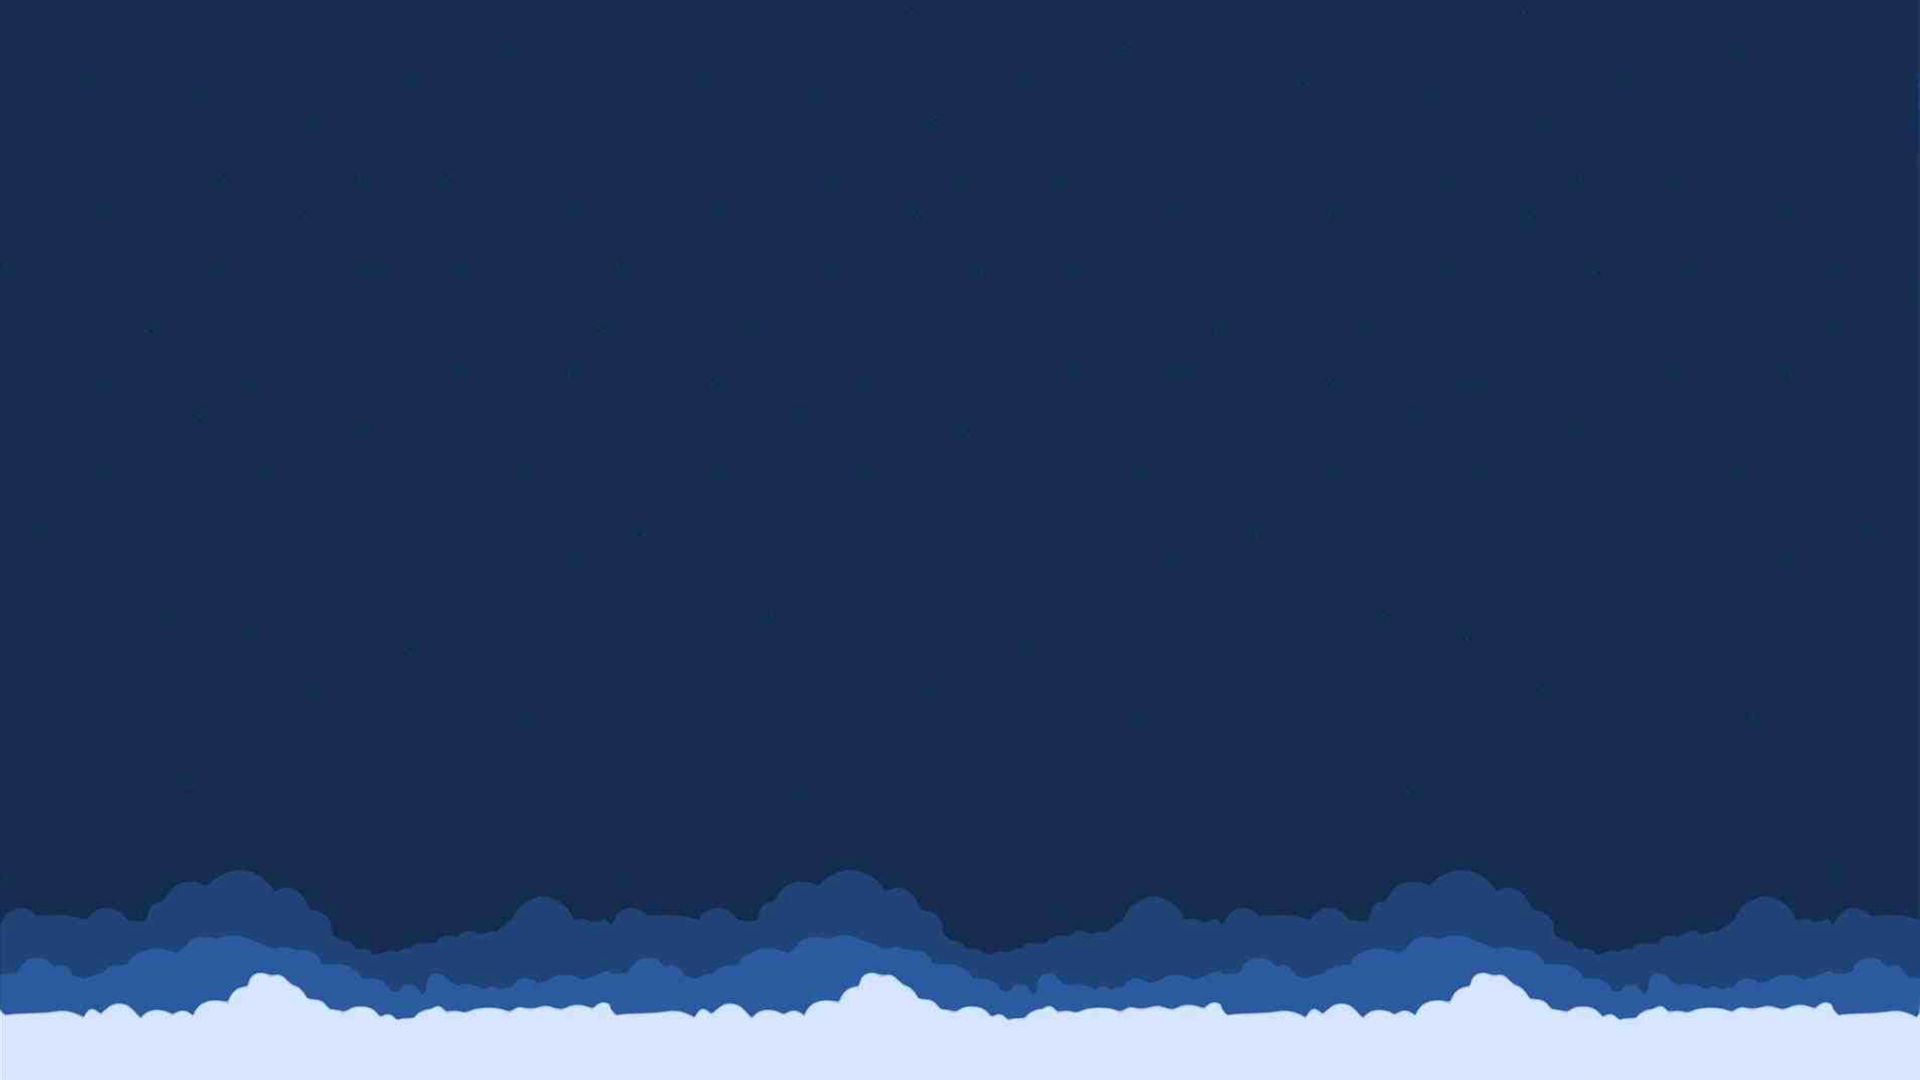
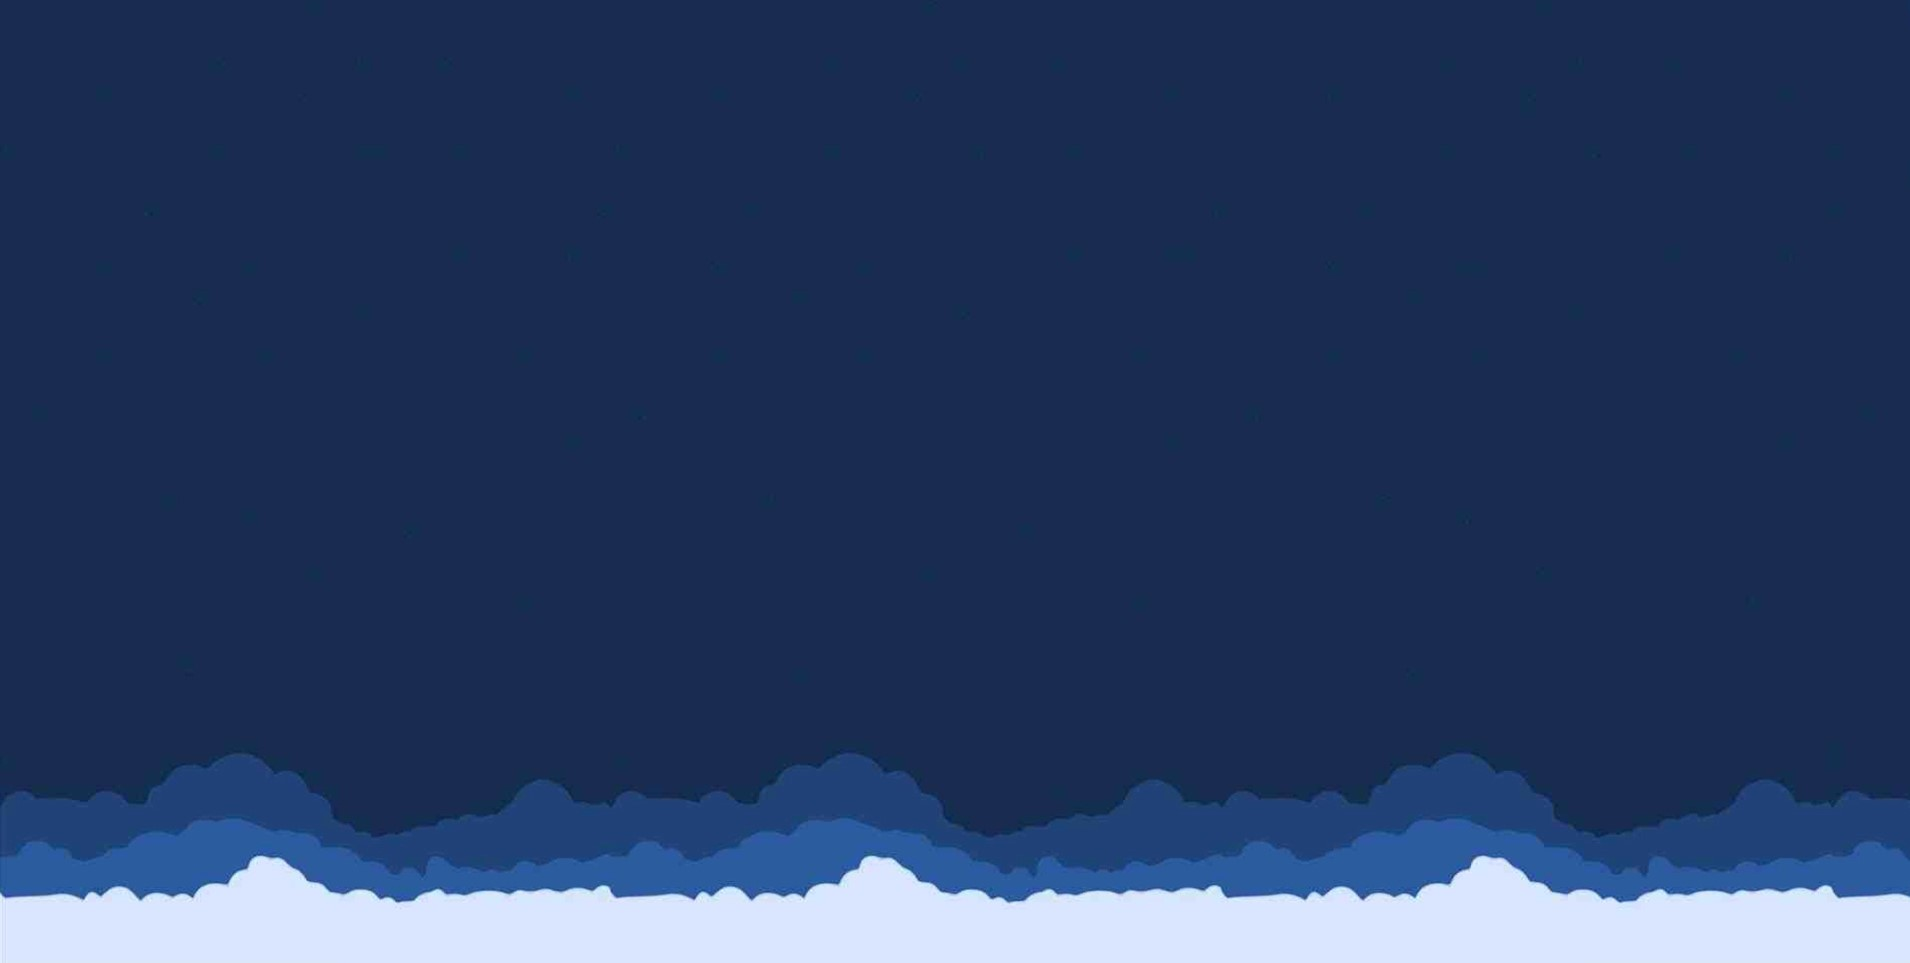
pddd

Changed region(s): [[0.0, 0.7788, 1.0, 0.9657]]

diff --git a/static/styles/home.css b/static/styles/home.css
@@ -8,7 +8,7 @@
 body{
     /* background-color:  #6f90ba; */
     margin-bottom: 5rem;
-    background-size: contain;
+    background-size: cover;
     background-repeat:no-repeat;
     background: url(./bg8.jpg) center fixed;
     /* box-shadow: inset 0 0 0 2000px#6f90ba; */
@@ -233,10 +233,10 @@ color: white;
     font-size: 1rem;
     text-decoration: none;
     /* color: rgb(32, 128, 253); */
-    color: rgb(6, 43, 255);
+    color: rgb(247, 255, 128);
 }
 .paginationRow a:hover{
-color: brown;
+color: rgb(77, 40, 40);
 }
 @media screen and (min-width: 980px) {
     .paginationRow .row{    
